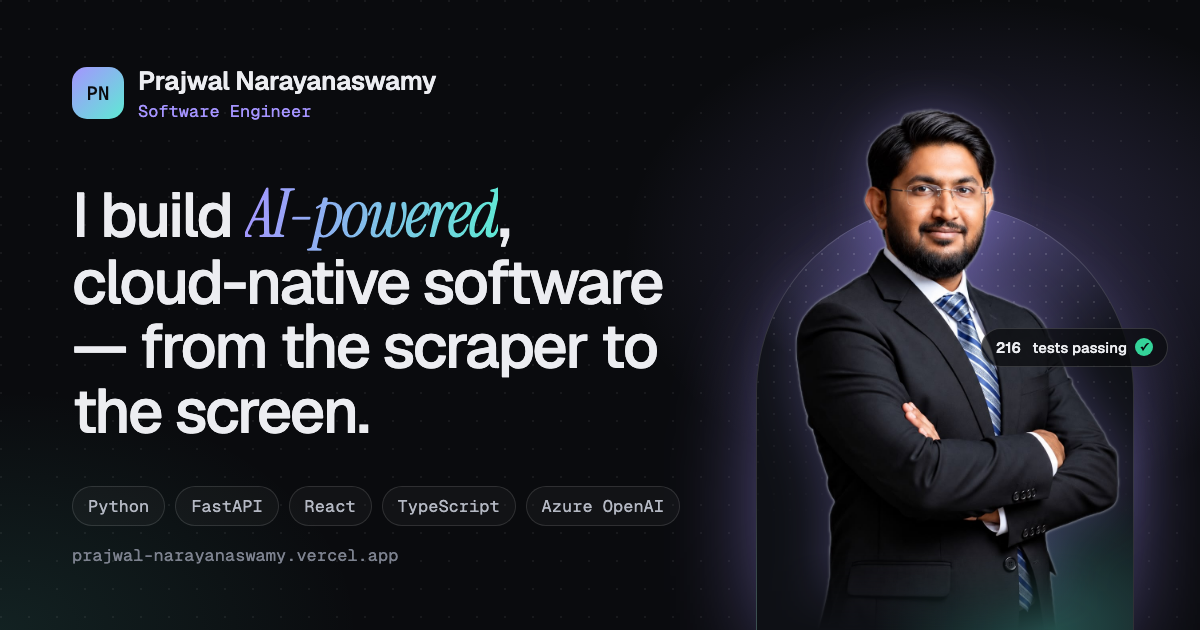
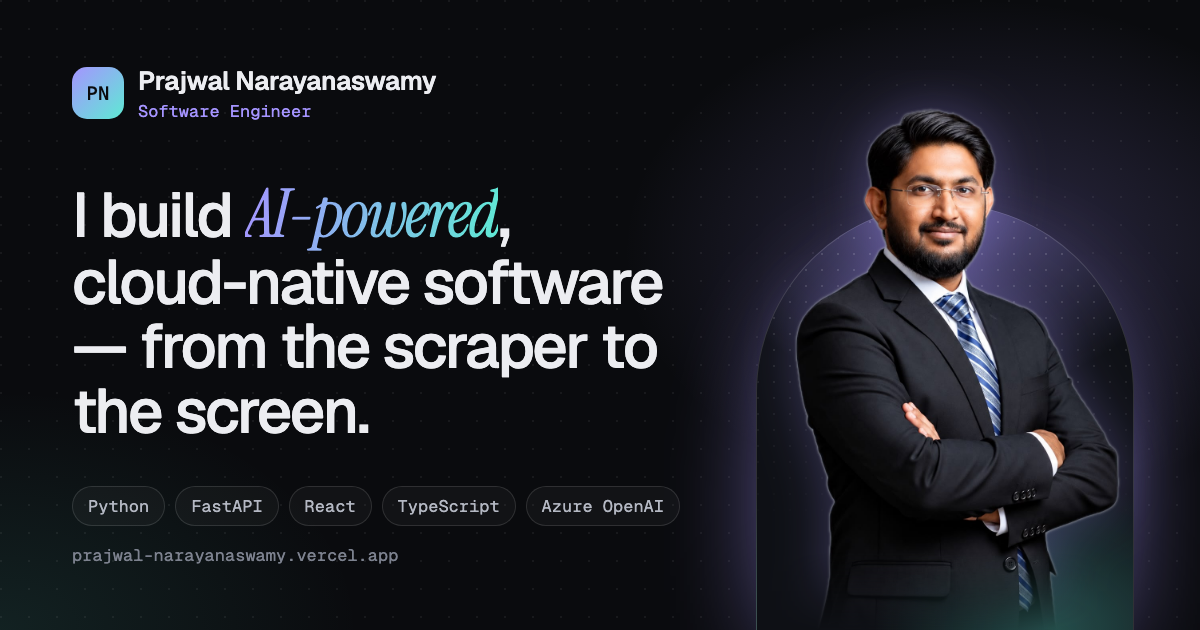
Remove floating badges from the hero portrait
The four badges (Microsoft · World's Edge, 216 tests passing, Azure OpenAI · RAG,
Published · ACM DL) overlapped the photo. Removed them from the hero and the
social preview image; the same facts remain in the case studies and publication card.

Changed region(s): [[0.8017, 0.5127, 0.9867, 0.6032]]

diff --git a/assets/css/style.css b/assets/css/style.css
@@ -201,24 +201,6 @@ main, .footer, .nav { position: relative; z-index: 2; }
 }
 :root[data-theme="light"] .cutout { filter: drop-shadow(0 20px 30px rgba(20, 20, 40, .18)); }
 @keyframes cutout-in { from { opacity: 0; clip-path: inset(100% 0 0 0); } to { opacity: 1; clip-path: inset(0 0 0 0); } }
-.chip {
-  position: absolute; z-index: 2; display: inline-flex; align-items: center; gap: 8px; white-space: nowrap;
-  padding: 9px 14px; border-radius: 999px; font-size: 13px; font-weight: 500; color: var(--text);
-  background: color-mix(in srgb, var(--bg) 72%, transparent); border: 1px solid var(--line-2);
-  backdrop-filter: blur(12px) saturate(1.3); -webkit-backdrop-filter: blur(12px) saturate(1.3);
-  box-shadow: 0 16px 40px -16px rgba(0, 0, 0, .5);
-  animation: chip-in .8s var(--ease) both calc(.7s + var(--n) * .14s), bob 6s ease-in-out infinite calc(var(--n) * -1.4s);
-}
-.chip b { font-variant-numeric: tabular-nums; }
-.chip-dot { width: 8px; height: 8px; border-radius: 2px; background: linear-gradient(135deg, var(--accent), var(--accent-2)); }
-.chip-ok { font-style: normal; display: grid; place-items: center; width: 18px; height: 18px; border-radius: 50%; background: #34d399; color: #0a0b0e; font-size: 11px; font-weight: 700; }
-.chip-spark { font-style: normal; color: var(--accent); }
-.chip-1 { top: 14%; left: -4%; }
-.chip-2 { top: 42%; right: -6%; }
-.chip-3 { bottom: 24%; left: -8%; }
-.chip-4 { bottom: 8%; right: 0; font-family: var(--mono); font-size: 12px; }
-@keyframes chip-in { from { opacity: 0; scale: .85; } }
-@keyframes bob { 50% { transform: translateY(-8px); } }
 
 /* console row: live terminal + metrics */
 .console { display: grid; grid-template-columns: 1.4fr 1fr; gap: 20px; margin-top: 48px; align-items: stretch; }
@@ -827,14 +809,6 @@ main, .footer, .nav { position: relative; z-index: 2; }
 .mini-wide .board::after { font-size: clamp(30px, 4vw, 48px); }
 .mini-wide .chips { margin-top: 0; }
 
-/* hero badge as link */
-a.chip { text-decoration: none; }
-a.chip:hover { border-color: var(--accent); }
-.chip-doc {
-  width: 12px; height: 14px; border-radius: 2px; border: 1.5px solid var(--accent); position: relative;
-  background: linear-gradient(var(--accent), var(--accent)) 2px 4px / 5px 1.5px no-repeat, linear-gradient(var(--accent), var(--accent)) 2px 7px / 5px 1.5px no-repeat;
-}
-
 /* ---------- publication card ---------- */
 .pub { display: grid; grid-template-columns: 1fr auto; gap: 28px; padding: 30px; margin-bottom: 24px; }
 .pub h3 { font-size: clamp(20px, 2vw, 24px); font-weight: 600; letter-spacing: -0.02em; line-height: 1.3; }
@@ -922,10 +896,6 @@ a.chip:hover { border-color: var(--accent); }
   .hero { padding-top: 104px; }
   .hero-grid { gap: 28px; }
   .stage { order: -1; max-width: 320px; height: 380px; margin-top: 4px; }
-  .chip { font-size: 12px; padding: 7px 11px; }
-  .chip-1 { left: -2%; }
-  .chip-2 { right: -3%; }
-  .chip-3 { left: -3%; }
   .console { margin-top: 36px; }
   .lede { font-size: 16.5px; }
   .metrics { grid-template-columns: 1fr 1fr; }
@@ -969,7 +939,6 @@ a.chip:hover { border-color: var(--accent); }
   .js .reveal { transform: none; transition: opacity .7s ease; transition-delay: var(--d, 0s); }
   .rotator .rw, .rotator .rw.out { transform: none; }
   .arch, .cutout { animation: fade-in .9s ease both; }
-  .chip { animation: fade-in .6s ease both calc(.35s + var(--n) * .12s); }
   .arch-sheen, .marquee-track, .board::after, .wave i, .narr-wave i, .pl-link i::after { animation: none; }
   .dot::after { display: none; }
   .stage [data-depth] { translate: none !important; }
@@ -988,8 +957,8 @@ a.chip:hover { border-color: var(--accent); }
 @media (hover: none) {
   /* iOS keeps :hover "stuck" after a tap, so hover lifts become press feedback instead. */
   .btn:hover, .ext:hover { transform: none; }
-  .btn, .chip, .more-btn, .suggest button, .narr-play, .narr-sound, .sim-run, .cl-rerun, .kbd-btn, .icon-btn { transition: transform .15s ease, background .2s, border-color .2s, color .2s; }
-  .btn:active, .chip:active, .more-btn:active, .suggest button:active, .narr-play:active, .narr-sound:active, .sim-run:active, .cl-rerun:active, .kbd-btn:active, .icon-btn:active { transform: scale(.96); }
+  .btn, .more-btn, .suggest button, .narr-play, .narr-sound, .sim-run, .cl-rerun, .kbd-btn, .icon-btn { transition: transform .15s ease, background .2s, border-color .2s, color .2s; }
+  .btn:active, .more-btn:active, .suggest button:active, .narr-play:active, .narr-sound:active, .sim-run:active, .cl-rerun:active, .kbd-btn:active, .icon-btn:active { transform: scale(.96); }
   .stage.scroll-depth [data-depth] { transition: none; }
   .on-hover, .on-hover-flex, .cmdk-esc { display: none; }
   .on-touch { display: inline; }
@@ -997,10 +966,9 @@ a.chip:hover { border-color: var(--accent); }
 }
 @media (pointer: coarse) {
   /* Blurring an animated background under every card is expensive on phone GPUs. */
-  .card, .metrics li, .terminal, .chip, .award-list li { -webkit-backdrop-filter: none; backdrop-filter: none; }
+  .card, .metrics li, .terminal, .award-list li { -webkit-backdrop-filter: none; backdrop-filter: none; }
   .card { background: color-mix(in srgb, var(--bg-2) 94%, transparent); }
   .metrics li { background: var(--bg-2); }
-  .chip { background: color-mix(in srgb, var(--bg) 92%, transparent); }
   .spot::before { transition: opacity .6s ease; }
   /* iOS zooms the whole page when an input's text is under 16px. */
   .term-input, .cmdk-input input, .ask-form input { font-size: 16px; }

diff --git a/index.html b/index.html
@@ -141,10 +141,6 @@
         <figure class="stage" id="stage">
           <div class="arch" data-depth="-8" aria-hidden="true"><span class="arch-grid"></span><span class="arch-sheen"></span></div>
           <img class="cutout" data-depth="6" src="images/portrait-cutout.webp" width="1122" height="1402" alt="Prajwal Narayanaswamy in a dark suit with arms crossed" fetchpriority="high" decoding="async">
-          <span class="chip chip-1" data-depth="22" style="--n:0"><i class="chip-dot"></i>Microsoft · World’s Edge</span>
-          <span class="chip chip-2" data-depth="30" style="--n:1"><b>216</b> tests passing <i class="chip-ok">✓</i></span>
-          <span class="chip chip-3" data-depth="16" style="--n:2"><i class="chip-spark">✦</i>Azure OpenAI · RAG</span>
-          <a class="chip chip-4" data-depth="26" style="--n:3" href="#publication"><i class="chip-doc" aria-hidden="true"></i>Published · ACM DL</a>
         </figure>
       </div>
 

diff --git a/sw.js b/sw.js
@@ -1,6 +1,6 @@
 // Service worker: precache the shell, then network-first so the live site is always fresh
 // and the cached copy is only used when offline.
-const CACHE = 'pn-portfolio-v5';
+const CACHE = 'pn-portfolio-v6';
 const SHELL = [
   './',
   './index.html',
